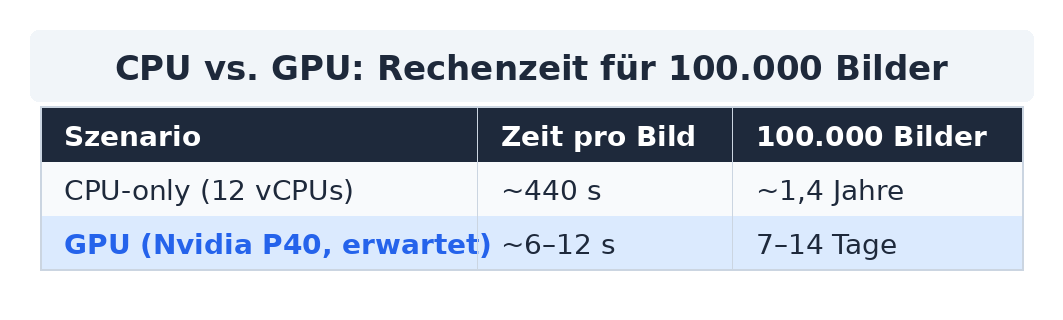
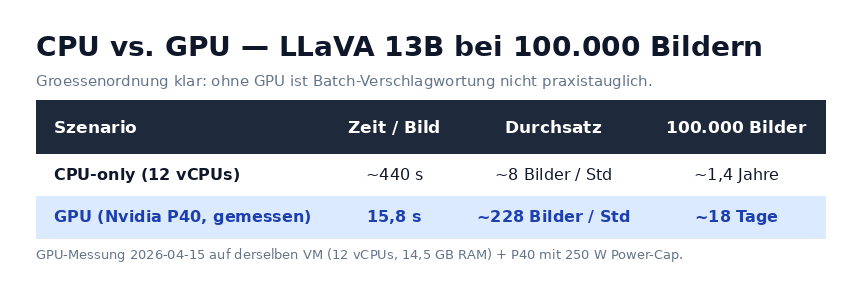
Sync LinkedIn article with GPU benchmark results
- article_linkedin.md: add UPDATE markers for the live post
  (CPU-vs-GPU table with measured 15.8s/~18 days, outlook
  paragraph) + two new sections to append:
  1. Nachtrag 2026-04-15: GPU benchmark with 4 additional
     larger models (llava:34b, gemma3:27b, gemma4:26b,
     gemma4:31b-it-q4_K_M) — LLaVA 13B still wins
  2. Warum groesser nicht automatisch besser ist: reader-
     oriented explanation (vision encoder bottleneck,
     training data dominance, constrained generation, MoE
     realities)
- Regenerate chart_speed_vs_quality.svg + PNG with GPU
  data (0-300 s x-axis instead of 0-1400 s CPU scale)
- Re-render table_benchmark_results.png (GPU ranking with
  all 12 models) and table_cpu_vs_gpu.png (measured GPU
  figures). table_api_pricing.png re-rendered for visual
  consistency, content unchanged
- LRAutoTagArchitektur.md: drop three obsolete risk rows
  (P40 thermal, InternVL2 sourcing, VM-RAM for 26B+) that
  are moot after the successful GPU benchmark run

Changed region(s): [[0.0302, 0.1216, 0.9663, 0.8818]]

diff --git a/docs/benchmark/article_linkedin.md b/docs/benchmark/article_linkedin.md
@@ -1,5 +1,15 @@
 # Wie findet man 1 Foto unter 100.000 ohne Keyword? — Wie ich meine Fotobibliothek mit lokaler KI retten will
 
+> 🔄 **HINWEIS FÜR DIE AKTUALISIERUNG DES LIVE-ARTIKELS (Stand 2026-04-15)**
+>
+> Diese Datei ist die **aktualisierte Fassung** nach dem GPU-Nachtest. Alle Stellen, die sich gegenüber dem bereits veröffentlichten LinkedIn-Artikel geändert haben, sind mit `🔄 UPDATE` markiert (vorher / nachher). Zusätzlich gibt es zwei neue Abschnitte ganz am Ende:
+> 1. *„Nachtrag: Die GPU läuft — und sie überrascht"*  (GPU-Benchmark-Ergebnis)
+> 2. *„Warum größer nicht automatisch besser ist"*  (Einordnung — Antwort auf die offensichtlichste Rückfrage)
+>
+> Pragmatische Empfehlung: den bestehenden LinkedIn-Post nicht komplett neu schreiben, sondern die markierten Stellen editieren und die beiden Nachträge als zusätzlichen Abschnitt anhängen. Den LinkedIn-Algorithmus freut ein substanzielles Update deutlich mehr als einen neuen Post ohne Kontext.
+
+---
+
 Ich fotografiere seit über 20 Jahren. Was als Hobby mit einer kleinen Kompaktkamera begann, wurde über die Jahre zur ernsthaften Leidenschaft — Reisen, Landschaften, Street, Makro, Portraits. Irgendwann stand die Zahl im Lightroom-Katalog bei 100.000 Bildern. Ja, ich habe tatsächlich noch alle.
 
 Und ich finde nichts.
@@ -91,10 +101,21 @@ Spannend war auch, was *nicht* funktioniert hat. BakLLaVA, obwohl technisch verw
 
 Die Benchmark-Ergebnisse zeigen aber auch eine Erkenntnis, die ich lieber nicht gehabt hätte: **Auf CPU ist Batch-Verschlagwortung nicht praxistauglich.** LLaVA 13B braucht auf meiner VM rund 7 Minuten pro Bild. Bei 100.000 Bildern wäre das über ein Jahr Rechenzeit.
 
-| Szenario | Zeit pro Bild | 100.000 Bilder |
-|---|---|---|
-| CPU-only (12 vCPUs) | ~440 s | ~1,4 Jahre |
-| GPU (Nvidia P40, erwartet) | ~6–12 s | **7–14 Tage** |
+> 🔄 **UPDATE — diese Tabelle im Live-Artikel ersetzen (geschätzte GPU-Zeit wurde gemessen):**
+>
+> **VORHER:**
+>
+> | Szenario | Zeit pro Bild | 100.000 Bilder |
+> |---|---|---|
+> | CPU-only (12 vCPUs) | ~440 s | ~1,4 Jahre |
+> | GPU (Nvidia P40, erwartet) | ~6–12 s | **7–14 Tage** |
+>
+> **NACHHER:**
+>
+> | Szenario | Zeit pro Bild | Durchsatz | 100.000 Bilder |
+> |---|---|---|---|
+> | CPU-only (12 vCPUs) | ~440 s | ~8 Bilder/Std | ~1,4 Jahre |
+> | **GPU (Nvidia P40, gemessen)** | **15,8 s** | **~228 Bilder/Std** | **~18 Tage** |
 
 Eine GPU verwandelt das System von einem Experiment in ein Produktionswerkzeug. Die Nvidia P40 gibt es gebraucht ab ca. 275 Euro — im Vergleich zu den kommerziellen Plugins also kein Schnäppchen --- aber dafür kann man damit noch viele andere tolle Experimente machen!
 
@@ -102,13 +123,76 @@ Eine GPU verwandelt das System von einem Experiment in ein Produktionswerkzeug. 
 
 Was ich an diesem Projekt am meisten schätze: die Mischung aus konkretem Nutzen und Experimentierspaß. Claude Code macht es möglich, ein Projekt wie dieses — Lightroom-Plugin, Backend-API, Bildanalyse-Pipeline, Benchmark-Framework — in einem Wochenende von der Idee zum lauffähigen System zu bringen. Nicht perfekt, aber funktional.
 
-Der nächste Schritt ist klar: Server im Keller aufrüsten. Sobald meine GPU-Karte wieder läuft teste ich auch noch zwei größere Modelle, die auf CPU leider gar nicht laufen — LLaVA-Next (34B) und InternVL2 (26B). Wenn die auf einer GPU dieselbe Qualitätssteigerung bringen wie der Sprung von 7B auf 13B, wird es richtig spannend.
-
-Bis dahin tagge ich meine Bilder zumindest im interaktiven Modus — einzeln, bei Bedarf, mit LLaVA 13B auf CPU. Immerhin: die Nadel im Heuhaufen wird langsam sichtbar.
+> 🔄 **UPDATE — den folgenden Absatz im Live-Artikel ersetzen (Ausblick auf 34B/26B ist überholt):**
+>
+> **VORHER:**
+>
+> > Der nächste Schritt ist klar: Server im Keller aufrüsten. Sobald meine GPU-Karte wieder läuft teste ich auch noch zwei größere Modelle, die auf CPU leider gar nicht laufen — LLaVA-Next (34B) und InternVL2 (26B). Wenn die auf einer GPU dieselbe Qualitätssteigerung bringen wie der Sprung von 7B auf 13B, wird es richtig spannend.
+> >
+> > Bis dahin tagge ich meine Bilder zumindest im interaktiven Modus — einzeln, bei Bedarf, mit LLaVA 13B auf CPU. Immerhin: die Nadel im Heuhaufen wird langsam sichtbar.
+>
+> **NACHHER:**
+>
+> > Inzwischen läuft die P40 wieder (aktive Kühlung, 250 W Power-Cap) und ich habe den kompletten Benchmark auf GPU wiederholt — inklusive vier zusätzlicher größerer Modelle. Das Ergebnis ist überraschend nüchtern: LLaVA 13B bleibt die Empfehlung. Details dazu im Nachtrag unten.
+> >
+> > Der Batch-Lauf über meine 100.000 Bilder ist gestartet. Die Nadel im Heuhaufen wird langsam sichtbar.
 
 ---
 
 *Die Testbilder stammen von Wikimedia Commons unter Creative-Commons-Lizenzen. Der vollständige technische Benchmark mit Rohdaten und Methodik ist als Open-Source-Dokumentation verfügbar. API-Preise sind Schätzwerte basierend auf den offiziellen Preislisten von OpenAI, Anthropic und Google (Stand April 2026).*
+
+---
+
+> 🆕 **NEU FÜR DEN LIVE-ARTIKEL — ab hier beide Nachträge anhängen:**
+
+## Nachtrag (15.04.2026): Die GPU läuft — und sie überrascht
+
+Das Thermo-Problem der Tesla P40 ist gelöst (aktive Kühlung, Power-Cap auf 250 W angehoben, Max-Temperatur im Benchmark: 61 °C), Ollama nutzt die GPU wieder voll. Ich habe den kompletten Benchmark wiederholt — und gleich **vier größere Modelle** ergänzt, die auf CPU gar nicht erst getestet werden konnten:
+
+- `llava:34b` (Yi-34B als Basis)
+- `gemma3:27b` (Google, dichte 27B)
+- `gemma4:26b` (Google Gemma 4, Mixture-of-Experts mit 4B aktiven Parametern)
+- `gemma4:31b-it-q4_K_M` (Google Gemma 4, Q4-Quantisierung)
+
+**Die Top 3 auf GPU:**
+
+| Rang | Modell | Score | Ø Zeit/Bild |
+|---|---|---|---|
+| 🥇 | **LLaVA 13B** | 77 % | **15,8 s** |
+| 🥈 | Gemma 4 31B (Q4) | 77 % | 146,7 s *(9× langsamer, gleicher Score)* |
+| 🥉 | Gemma 3 27B | 73 % | 24,5 s |
+
+![Benchmark-Ergebnisse GPU](table_benchmark_results.png)
+
+Die Überraschung: das 34B-Modell (LLaVA-Next auf Yi-Basis) landet nur bei **45 % Score** — schlechter als ein 7B-Modell und dreimal langsamer als LLaVA 13B. Gemma 4 26B (die MoE-Variante mit nur 4 Mrd. aktiven Parametern) deadlockte bei einem der fünf Testbilder 17 Minuten lang und landet trotz 26 Mrd. Gesamtparametern ebenfalls unter der 13B-Baseline.
+
+**Aktualisierte Quali-vs-Zeit-Übersicht:**
+
+![Qualität vs. Geschwindigkeit (GPU)](chart_speed_vs_quality.png)
+
+**Der GPU-Speedup ist dafür beeindruckend:**
+
+![CPU vs. GPU](table_cpu_vs_gpu.png)
+
+Für LLaVA 13B heißt das konkret: **~228 Bilder pro Stunde**, also etwa **18 Tage für die komplette 100.000-Bibliothek**. Nicht die 7–14 Tage, die ich optimistisch geschätzt hatte, aber die Größenordnung stimmt — und vor allem: Produktionsbetrieb ist überhaupt erst möglich.
+
+## Warum größer nicht automatisch besser ist
+
+Die offensichtliche Rückfrage zu den Ergebnissen oben: **„Warum schneidet ein 34B-Modell schlechter ab als ein 13B-Modell? Das ist doch kontraintuitiv."**
+
+Die Beobachtung ist nicht nur plausibel, sondern im Rückblick sogar erwartbar. Vier Gründe, die hier zusammenspielen:
+
+**1. Der Vision-Encoder ist der Flaschenhals, nicht der Sprachteil.** Ein Vision-Language-Model besteht aus zwei Teilen: einem Vision-Encoder (meist ein CLIP-Derivat), der das Bild in einen Feature-Vektor überführt, und einem Sprachmodell, das aus diesen Features Text generiert. In vielen LLaVA-Varianten ist der Vision-Encoder **identisch** oder sehr ähnlich — egal ob 7B, 13B oder 34B. Mehr Sprachmodell-Parameter bringen also nichts, wenn das Bild vorher schon auf dieselbe Feature-Repräsentation reduziert wird.
+
+**2. Trainingsdaten-Dominanz schlägt Parameterzahl.** LLaVA 34B basiert auf Yi-34B, einem Modell mit starkem chinesisch-englischem Trainingsmix. Deutsche Ausgaben sind nicht die Stärke. LLaVA 13B basiert auf Vicuna, das deutlich mehr westliche Trainingsdaten gesehen hat. Für einen deutschsprachigen Prompt mit deutscher Pflicht-Ausgabe ist das ein harter Nachteil, den selbst die 2,6-fache Parameterzahl nicht ausgleicht.
+
+**3. Constrained Generation ist eine eigene Disziplin.** Mein Prompt ist strukturiert: JSON-Ausgabe, zehn Kategorien, kontrollierte Vokabulare. Größere Modelle haben stärkere Priors („was würde ein Mensch wahrscheinlich antworten?") und weichen häufiger von engen Vorgaben ab. Kleinere Modelle folgen Anweisungen oft strikter — einfach weil sie weniger eigene Ideen haben. Das passt zu dem, was man aus anderen Benchmarks kennt: bei strukturierter Ausgabe führt „bigger is better" nicht zuverlässig zum Ziel.
+
+**4. MoE-Modelle haben keinen Qualitätsvorteil per Parameter.** Gemma 4 26B A4B hat 26 Mrd. Gesamtparameter, aber nur 4 Mrd. sind pro Token aktiv. Der Vorteil von Mixture-of-Experts liegt in der **Inferenz-Effizienz**, nicht in einer höheren Qualität als dichte Modelle vergleichbarer aktiver Größe. Gegen ein dichtes 13B-Modell konkurriert eine A4B-Variante rechnerisch eher mit 4B-Modellen — und genau dort landet der Score.
+
+**Einschränkung:** Mein Testset umfasst fünf Bilder. Statistisch ist das kaum belastbar, qualitativ für meinen Anwendungsfall (Keywords für deutsche Fotobibliothek) aber klar genug. Wer die Modelle für andere Aufgaben testet — englische Bildbeschreibungen, OCR, VQA-Benchmarks — bekommt vermutlich andere Ranglisten.
+
+**Die Erkenntnis für Praktiker:** Skalierungsgesetze gelten für breite Benchmarks (MMLU, HumanEval usw.) — nicht automatisch für eng umrissene Produktionsaufgaben. Für jede konkrete Pipeline muss man selbst messen. Und manchmal ist das „kleinere" Modell schlicht das besser abgestimmte.
 
 ---
 

diff --git a/LRAutoTagArchitektur.md b/LRAutoTagArchitektur.md
@@ -387,9 +387,6 @@ Plugin holt Ergebnisse und schreibt Keywords in LR-Katalog
 | Ollama-Shared-Service wird überlastet | Mittel | Mittel | Rate-Limiting, Tageszeit-Steuerung |
 | LR Plugin API-Einschränkungen | Niedrig | Hoch | Frühzeitig LR SDK Capabilities prüfen (Sprint 3 vorgezogen) |
 | 100k Bilder Batch dauert zu lange | Niedrig | Niedrig | Parallelität erhöhen, oder kleinere Vision-Modelle testen |
-| P40 thermisch instabil (Sprint 5 blockiert) | Hoch | Mittel | Kühlung/Gehäuselüftung optimieren, ggf. Austausch; Sprint 5 nicht ohne stabile GPU starten |
-| InternVL2 26B nicht in Ollama-Library, nur Community-GGUF | Mittel | Niedrig | Verfügbarkeit prüfen, ggf. eigenes Modelfile bauen oder Modell aus Benchmark streichen |
-| VM-RAM (14,5 GB) reicht nicht für 26B+-Modelle (insb. MoE) | Hoch | Mittel | Aufrüstung auf ≥32 GB als harte Vorbedingung für erweiterten Modellbenchmark |
 
 ---
 
